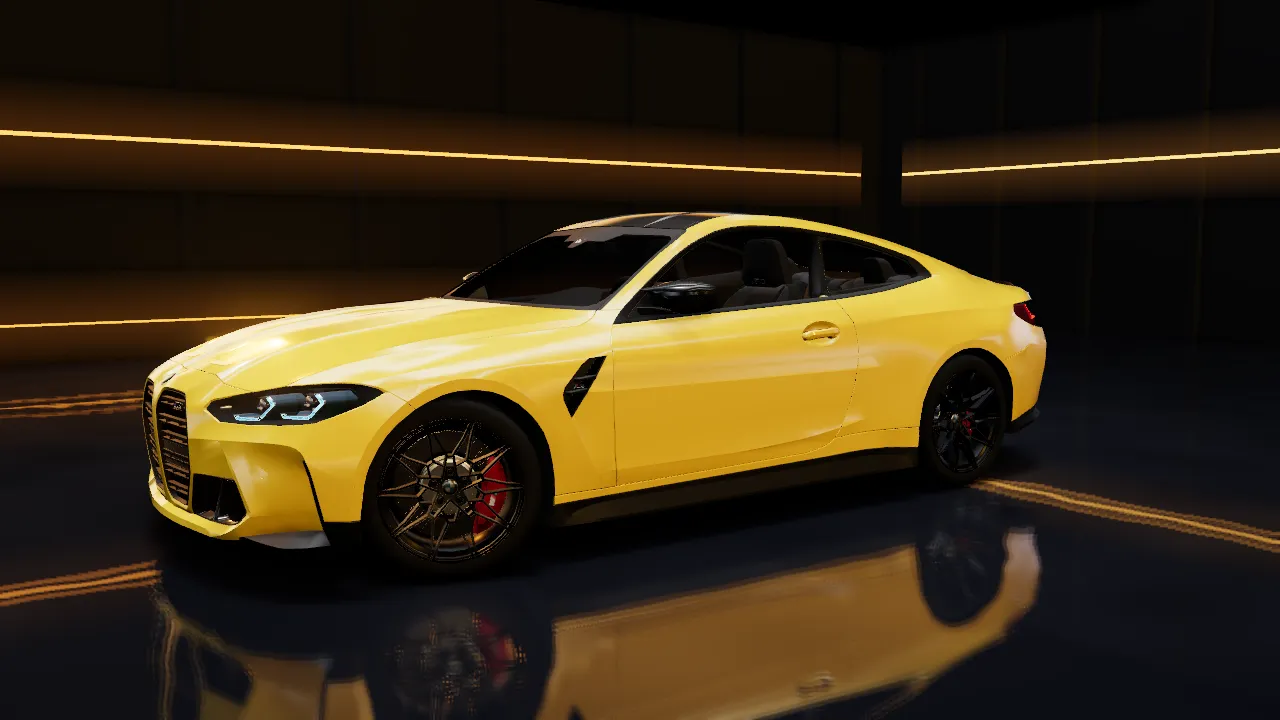
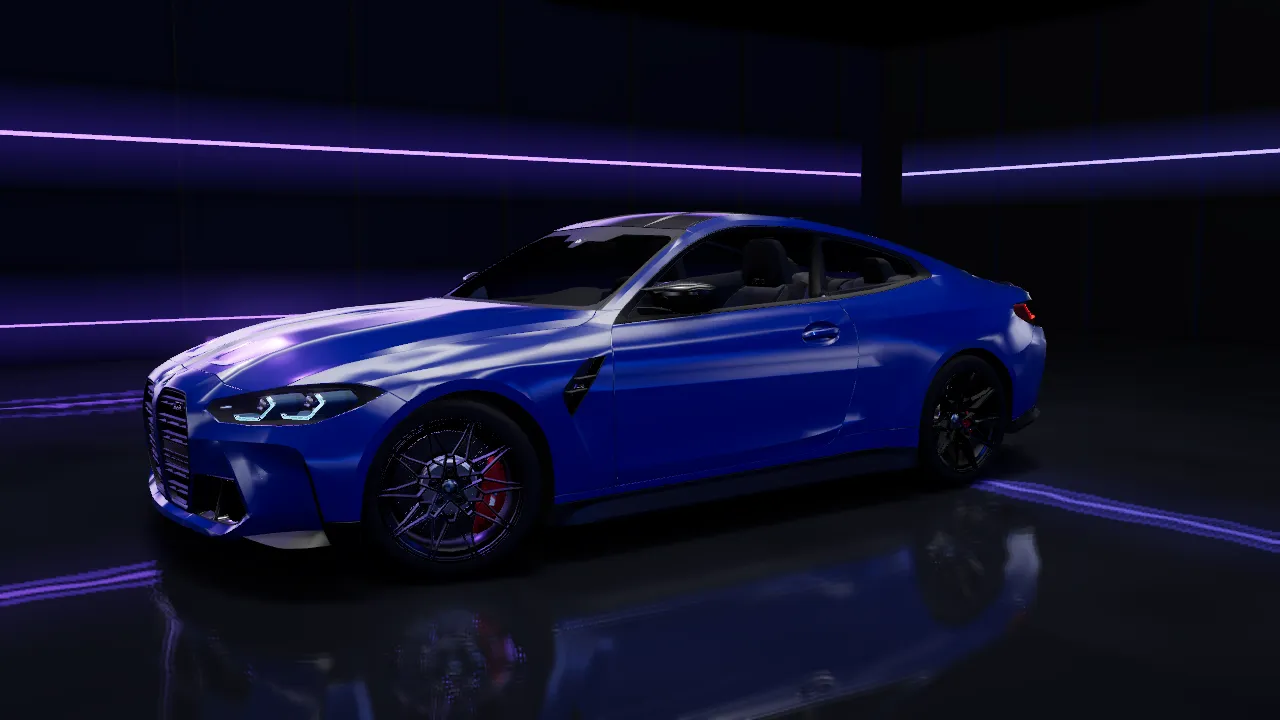
overlay: keep pictures and vehicles in their original colours, gold #C69238
The gold is now for the interface only. The photographs lose their gold
grade, the configurator starts in the shared colour again and the 3D
room keeps its original lighting; Overlay's own yellow posters are gone
and its window-film stills are rendered again to match.

The interface gold becomes #C69238 (buttons, selected options, section
labels, outlines, the quote and closing bands).

Claude-Session: https://claude.ai/code/session_01Uuf158wa1zZ5a3BWrMyBfE

diff --git a/fastwheels/src/brands/overlay.css b/fastwheels/src/brands/overlay.css
@@ -1,11 +1,11 @@
-/* Overlay: black and gold. Dark bands carry a warm tint and a gold glow; the quote band and the closing band are solid gold. */
+/* Overlay: black and gold. Dark bands carry a warm tint and a gold glow; the quote band and the closing band are solid gold.
+   The gold is for the interface only: photographs and the 3D vehicles keep their original colours. */
 :root {
-  --gold: #e1b45b;          /* Overlay's yellow, as text and as key colour on dark */
-  --gold-hi: #f2cb78;
-  --gold-deep: #bf8f2e;     /* Overlay's button gold */
+  --gold: #c69238;          /* the interface gold: buttons, selected options, section labels, bands */
+  --gold-hi: #d8a751;       /* the same gold, one step lighter, for hover */
   --on-gold: #140f05;
-  --on-gold-dim: rgba(20, 15, 5, 0.8);
-  --gold-band: linear-gradient(135deg, #ecc468 0%, #dcab45 48%, #c4932f 100%);
+  --on-gold-dim: rgba(20, 15, 5, 0.88);
+  --gold-band: linear-gradient(135deg, #cf9c42 0%, #c69238 50%, #b98630 100%);
 
   --bg: #0f0c06;
   --bg-rgb: 15, 12, 6;
@@ -16,8 +16,8 @@
   --ink: #f7f1e3;
   --dim: rgba(247, 241, 227, 0.76);
   --faint: rgba(247, 241, 227, 0.56);
-  --line: rgba(225, 180, 91, 0.2);
-  --line-2: rgba(225, 180, 91, 0.4);
+  --line: rgba(198, 146, 56, 0.24);
+  --line-2: rgba(198, 146, 56, 0.46);
   --accent: var(--gold);
   --key: var(--gold);
   --key-hover: var(--gold-hi);
@@ -41,15 +41,13 @@ body { background: var(--bg); }
 .meter i { background: var(--gold); }
 h1 em, h2 em { font-style: normal; color: var(--gold); }
 
-/* Pictures: the same warm grade as the animated hero */
-.story-poster, .step-still img { filter: sepia(0.72) saturate(2.1) hue-rotate(-8deg) brightness(0.95) contrast(1.05); }
-.story-pic::after { background: linear-gradient(90deg, rgba(var(--deep-rgb), 0.78), rgba(var(--deep-rgb), 0.2) 46%, rgba(var(--deep-rgb), 0) 70%), linear-gradient(0deg, rgba(var(--deep-rgb), 0.6), rgba(var(--deep-rgb), 0) 30%), radial-gradient(90% 70% at 88% 8%, rgba(225, 180, 91, 0.22), rgba(225, 180, 91, 0) 60%); }
+/* Pictures and 3D vehicles are left in their own colours: no tint over them. */
 .hero-copy h1 { text-shadow: 0 2px 30px rgba(0, 0, 0, 0.55); }
 
 /* Dark bands: black with a gold glow */
-.config { background: radial-gradient(120% 60% at 100% 0%, rgba(225, 180, 91, 0.2), rgba(225, 180, 91, 0) 58%), linear-gradient(180deg, var(--deep), var(--bg) 220px); }
-.interior { background: radial-gradient(90% 420px at 0% 0%, rgba(225, 180, 91, 0.17), rgba(225, 180, 91, 0) 70%), var(--deep); }
-.extras { background: radial-gradient(110% 520px at 100% 0%, rgba(225, 180, 91, 0.18), rgba(225, 180, 91, 0) 62%), var(--bg); }
+.config { background: radial-gradient(120% 60% at 100% 0%, rgba(198, 146, 56, 0.2), rgba(198, 146, 56, 0) 58%), linear-gradient(180deg, var(--deep), var(--bg) 220px); }
+.interior { background: radial-gradient(90% 420px at 0% 0%, rgba(198, 146, 56, 0.17), rgba(198, 146, 56, 0) 70%), var(--deep); }
+.extras { background: radial-gradient(110% 520px at 100% 0%, rgba(198, 146, 56, 0.18), rgba(198, 146, 56, 0) 62%), var(--bg); }
 .site-footer { background: linear-gradient(180deg, #151006, var(--bg) 60%); border-top-color: var(--line-2); }
 .viewer-stage, .cine-stage { background: var(--deep); }
 .svc { border-color: var(--line-2); background: linear-gradient(160deg, #1f180b, var(--bg-2) 62%); }

diff --git a/fastwheels/src/brands/overlay.js b/fastwheels/src/brands/overlay.js
@@ -21,12 +21,14 @@ export default {
   booking: { endpoint: null, timeoutMs: 12000 },
 
   nav: [['detailing', 'nav.detailing'], ['ppf', 'nav.ppf'], ['wrap', 'nav.wrap'], ['tint', 'nav.tint'], ['services', 'nav.services']],
-  story: { grade: [1.34, 0.99, 0.44, 0.62], steps: [[1, 'detailing', 'b_foam'], [2, '', 'c_clean'], [3, 'ppf', 'e_macro'], [4, '', 'd_bike']] },
+  story: { grade: null, steps: [[1, 'detailing', 'b_foam'], [2, '', 'c_clean'], [3, 'ppf', 'e_macro'], [4, '', 'd_bike']] },
   services: ['carwrap', 'ppf', 'tint', 'detail', 'parts', 'motowrap', 'buildingtint', 'boatwrap'],   // the list in Overlay's own quote form
   wrapService: { car: 'carwrap', bike: 'motowrap' },
   interior: 'tint',                    // the interior sequence shows window tint films (a service Overlay offers)
-  defaultSelection: { vehicle: 'car', color: 'signal-yellow', finish: 'gloss', effect: 'solid' },
-  scene: { accent: { a: 0xf2b632, b: 0xe08a1c, fillA: 0xffe2b0, fillB: 0xffd49a, endA: 0xf6c75a, endB: 0xe8a23a } },
+  // Pictures and vehicles keep their original colours (no gold grade, the shared starting colour and room light):
+  // the gold belongs to the interface, not to the cars.
+  defaultSelection: null,
+  scene: { accent: null },
   extras: {
     services: [
       { id: 'carwrap', warranty: 'svc.warranty3' }, { id: 'ppf', warranty: 'svc.warranty10' }, { id: 'tint' }, { id: 'detail' },

diff --git a/fastwheels/README.md b/fastwheels/README.md
@@ -42,8 +42,9 @@ own pictures in `public/brands/<key>/img/` replace the shared ones. Only the cho
 
 **Overlay** (everything taken from overlay.pt, nothing invented):
 
-- Logo, black and gold colours (gold key colour, gold quote and closing bands, warm dark backgrounds, gold room
-  lighting in 3D, a yellow car to start with), Portuguese by default.
+- Logo, black and gold colours for the interface (gold key colour, gold quote and closing bands, warm dark
+  backgrounds), Portuguese by default. Photographs and the 3D vehicles keep their original colours: no tint on
+  the pictures, the shared starting colour and room light in 3D.
 - Address, phone, WhatsApp, e-mail, Instagram, Facebook, YouTube, privacy policy and complaints book links.
   Opening hours are not on overlay.pt, so none are shown.
 - Services as on Overlay's own quote form; warranties (3 years wrapping, 10 years PPF), film brands and the
